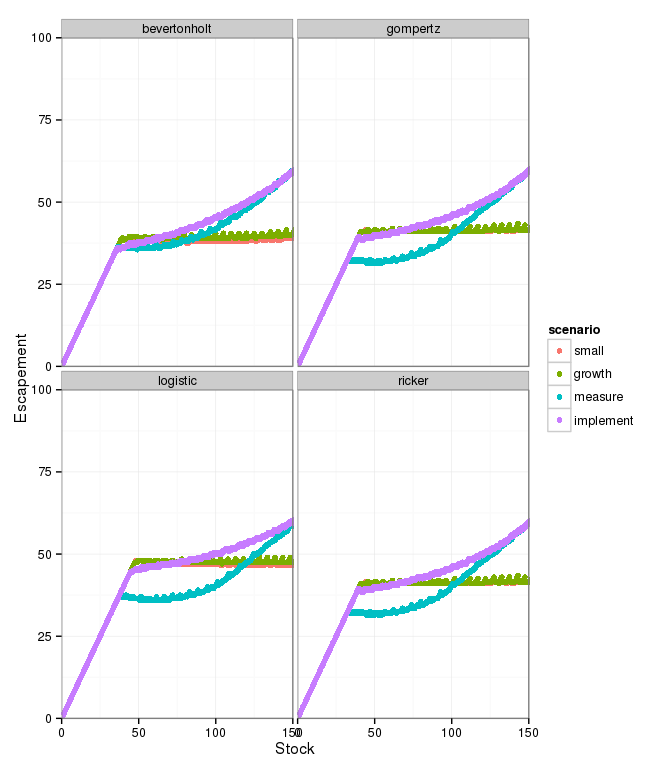
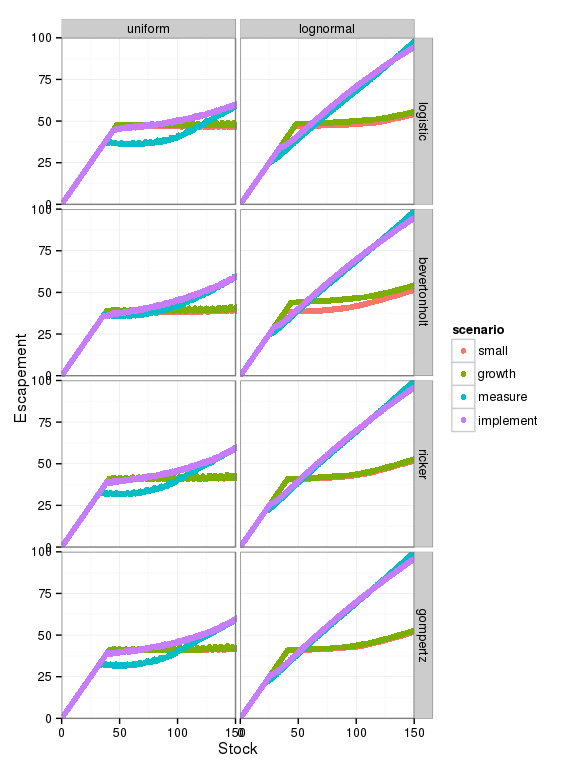
include lognormal & uniform noise in robustness by model

diff --git a/inst/scripts/robust_to_model.md b/inst/scripts/robust_to_model.md
@@ -1,19 +1,5 @@
 ``` r
 library("dplyr")
-```
-
-    ## 
-    ## Attaching package: 'dplyr'
-    ## 
-    ## The following objects are masked from 'package:stats':
-    ## 
-    ##     filter, lag
-    ## 
-    ## The following objects are masked from 'package:base':
-    ## 
-    ##     intersect, setdiff, setequal, union
-
-``` r
 library("tidyr")
 library("ggplot2")
 library("multipleuncertainty")
@@ -46,29 +32,31 @@ ggplot(df, aes(x = t, y = x, color = model)) + geom_line() + facet_wrap(~model)
 Optimal control under multiple uncertainty by model:
 
 ``` r
-fig3 <- function(model){  
+fig3 <- function(model, noise_dist){  
   grid <- seq(0, 200, length = 401)
-  model <- get(model)
-  small     <- multiple_uncertainty(f = model, x_grid = grid, sigma_g = 0.1, sigma_m = 0.1, sigma_i = 0.1)
-  growth    <- multiple_uncertainty(f = model, x_grid = grid, sigma_g = 0.5, sigma_m = 0.1, sigma_i = 0.1)
-  measure   <- multiple_uncertainty(f = model, x_grid = grid, sigma_g = 0.1, sigma_m = 0.5, sigma_i = 0.1)
-  implement <- multiple_uncertainty(f = model, x_grid = grid, sigma_g = 0.1, sigma_m = 0.1, sigma_i = 0.5)
+  model <- get(as.character(model))
+  small     <- multiple_uncertainty(f = model, x_grid = grid, sigma_g = 0.1, sigma_m = 0.1, sigma_i = 0.1, noise_dist = noise_dist)
+  growth    <- multiple_uncertainty(f = model, x_grid = grid, sigma_g = 0.5, sigma_m = 0.1, sigma_i = 0.1, noise_dist = noise_dist)
+  measure   <- multiple_uncertainty(f = model, x_grid = grid, sigma_g = 0.1, sigma_m = 0.5, sigma_i = 0.1, noise_dist = noise_dist)
+  implement <- multiple_uncertainty(f = model, x_grid = grid, sigma_g = 0.1, sigma_m = 0.1, sigma_i = 0.5, noise_dist = noise_dist)
+  ## Combine records by scenario
   df <- data.frame(y_grid = grid, small = small, growth = growth, 
                    measure = measure, implement = implement) %>%
     tidyr::gather(scenario, value, -y_grid)
 }
 
-df <- 
-data.frame(model = c("logistic", "bevertonholt", "ricker", "gompertz"), stringsAsFactors = FALSE) %>%
-  dplyr::group_by(model) %>%
-  dplyr::do(fig3(.$model))
+
+expand.grid(model = c("logistic", "bevertonholt", "ricker", "gompertz"), 
+            noise_dist = c("uniform", "lognormal")) %>%
+  dplyr::group_by(model, noise_dist) %>%
+  dplyr::do(fig3(.$model, .$noise_dist)) -> df
 ```
 
 ``` r
 df %>%
   ggplot(aes(x = y_grid, y = value, col = scenario)) + 
     geom_point()  + 
-    facet_wrap(~model, ncol = 2) + 
+    facet_grid(model ~ noise_dist) + 
     xlab("Stock") + 
     ylab("Escapement") + 
     coord_cartesian(xlim = c(0, 150), ylim = c(0,100)) + 
